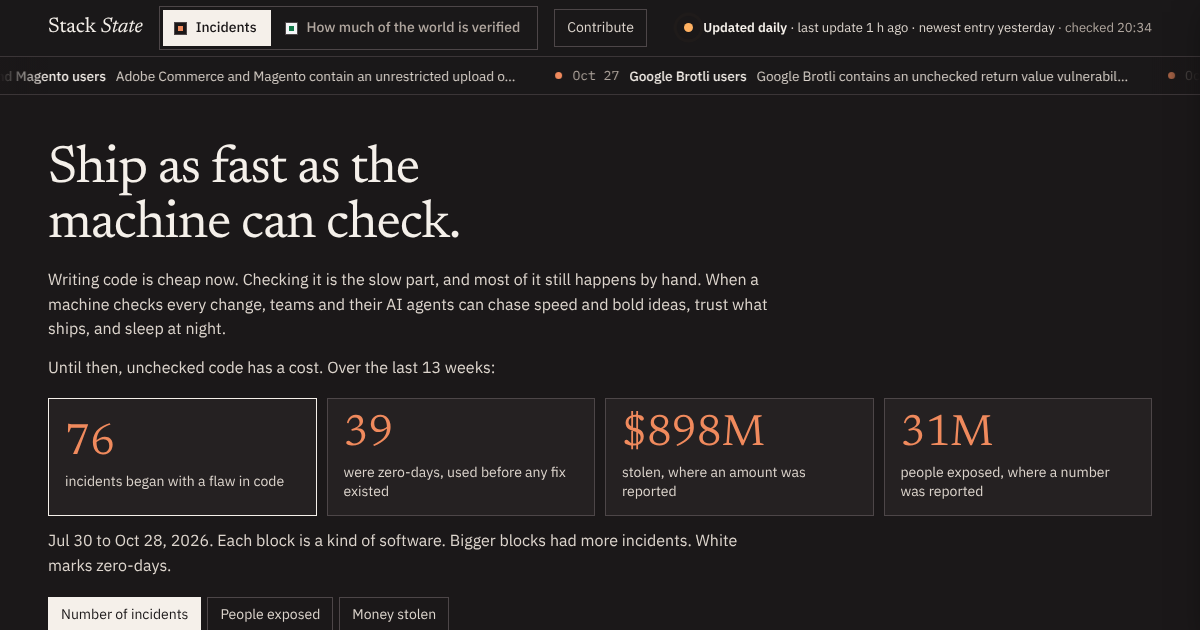
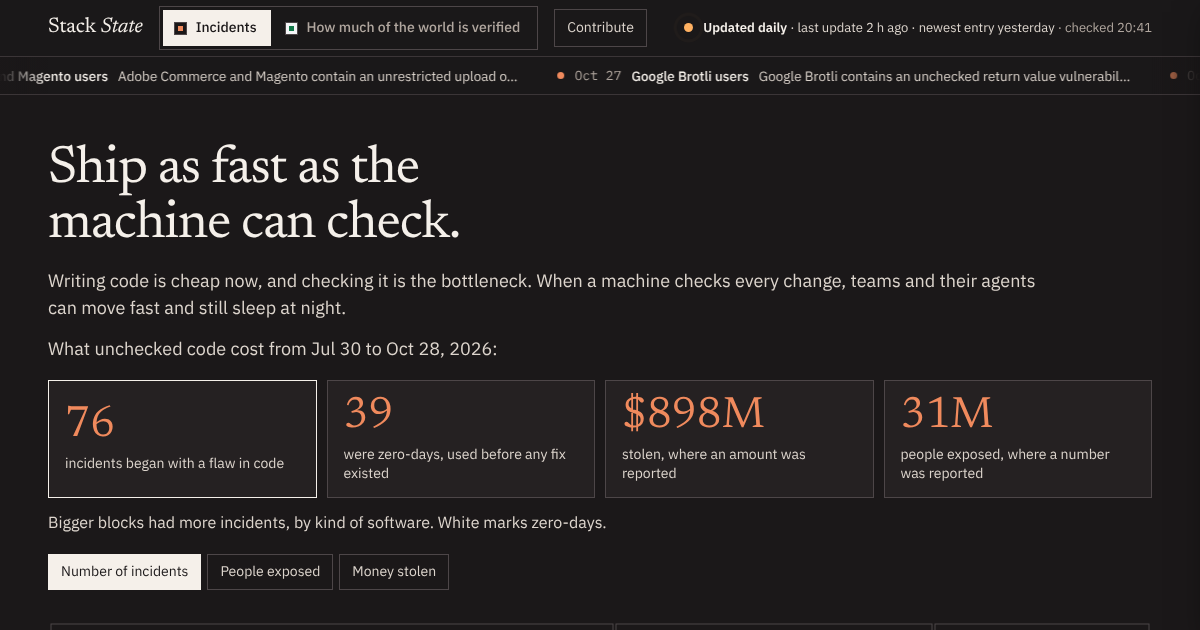
Shorten all page copy to two sentences or fewer and drop personal names
Rewrites every text block in plain language, keeps each to at most two
sentences, widens intro text so it wraps less, moves the date range into
the line above the stats, and replaces the named NASA reference with a
neutral one.

Claude-Session: https://claude.ai/code/session_01UGvyTyVFSucSV4igrg3bzF

diff --git a/site/index.html b/site/index.html
@@ -75,7 +75,7 @@ a { color: var(--accent); }
 .contrib { font-size: 14px; color: var(--ink-2); border: 1px solid var(--rule-2); padding: 7px 12px; text-decoration: none; white-space: nowrap; }
 .contrib:hover { color: var(--ink); border-color: var(--ink); }
 @media (max-width: 760px) { .contrib { order: 1; margin-left: auto; padding: 6px 10px; } .mode { order: 2; } }
-.lede { font-size: 16px; line-height: 1.55; color: var(--ink-2); max-width: 46rem; margin: 14px 0 0; }
+.lede { font-size: 18px; line-height: 1.5; color: var(--ink-2); max-width: 62rem; margin: 14px 0 0; }
 .lede a, .sug a { color: inherit; }
 .sug { margin-top: 18px; font-size: 14px; }
 .mode { display: inline-flex; border: 1px solid var(--rule-2); padding: 3px; gap: 3px; }
@@ -283,7 +283,7 @@ section.blk { padding-block: clamp(40px, 5vw, 64px) 0; scroll-margin-top: 110px;
 @media (max-width: 760px) { .stats { grid-template-columns: repeat(2, minmax(0, 1fr)); } }
 .join { margin-top: 26px; padding: 18px 20px; border: 1px solid var(--rule-2); background: var(--bg-2); }
 .join h3 { font-family: var(--f-serif); font-weight: 400; font-size: 24px; margin: 0 0 8px; color: var(--ink); }
-.join p { margin: 0 0 10px; font-size: 15px; line-height: 1.55; color: var(--ink-2); max-width: 46rem; }
+.join p { margin: 0 0 12px; font-size: 16px; line-height: 1.5; color: var(--ink-2); max-width: 62rem; }
 .join a.btn { display: inline-block; padding: 9px 14px; border: 1px solid var(--ink); color: var(--ink); text-decoration: none; font-size: 15px; }
 .maint { margin-top: 14px; font-size: 14px; color: var(--muted); }
 .t-short { display: none; }
@@ -326,8 +326,8 @@ footer.foot code { font-family: var(--f-mono); font-size: 13px; }
 <main class="view" id="v-attacks">
   <header class="hero wrap">
     <h1 class="big">Ship as fast as the machine can check.</h1>
-    <p class="lede">Writing code is cheap now. Checking it is the slow part, and most of it still happens by hand. When a machine checks every change, teams and their AI agents can chase speed and bold ideas, trust what ships, and sleep at night.</p>
-    <p class="lede">Until then, unchecked code has a cost. Over the last <span id="a-weeks">13</span> weeks:</p>
+    <p class="lede">Writing code is cheap now, and checking it is the bottleneck. When a machine checks every change, teams and their agents can move fast and still sleep at night.</p>
+    <p class="lede">What unchecked code cost from <span id="a-range"></span>:</p>
     <div class="stats" id="a-stats"></div>
     <p class="dots-sub" id="dots-sub"></p>
     <div class="sz" id="tree-size" role="group" aria-label="Size blocks by"></div>
@@ -352,10 +352,11 @@ footer.foot code { font-family: var(--f-mono); font-size: 13px; }
   </section>
 
   <footer class="foot wrap">
-    <p>Every incident links to its public source. Layers and categories are our judgment, and the list is incomplete by design. These records show what broke; they do not claim that any proof would have prevented a given incident. See <button type="button" class="link" data-goto="proofs" style="appearance:none;border:0;background:none;display:inline-block;padding:8px 0;margin:-8px 0;color:inherit;text-decoration:underline;cursor:pointer">how much of the world is verified</button>.</p>
+    <p>Every incident links to its public source, and the list is incomplete by design. We record what broke and make no claim about what a proof would have prevented.</p>
+    <p><button type="button" class="link" data-goto="proofs" style="appearance:none;border:0;background:none;display:inline-block;padding:8px 0;margin:-8px 0;color:inherit;text-decoration:underline;cursor:pointer">See how much of the world is verified</button></p>
     <div class="join">
       <h3>Help fill the map</h3>
-      <p>Suggest software that should be checked, report a bug, or point us to software that is already verified. You don't need to be a verification expert, and any tool counts, our prover included. Or just tell us what to check, and we'll check it.</p>
+      <p>Tell us what software to check, report a bug, or point us to verified work. No expertise needed: use any tool, ours included, or just ask and we'll check it.</p>
       <a class="btn" href="https://github.com/iamjustoutthere/stackstate/issues/new/choose" target="_blank" rel="noopener noreferrer">Open an issue on GitHub</a>
     </div>
     <p class="maint">Maintained by Intent Computing. Contributions welcome.</p>
@@ -367,16 +368,16 @@ footer.foot code { font-family: var(--f-mono); font-size: 13px; }
   <header class="hero wrap">
     <p class="lab">How much of the world is verified</p>
     <h1 class="big"><span class="pv num" id="p-v"></span> of <span class="num" id="p-t"></span> widely used components on our list are fully verified by machine</h1>
-    <p class="lede">Verified code can move fast. A machine re-checks every change, so people spend their time on speed and new ideas instead of review. Grigore Roșu saw the other side at NASA, where most of a project's budget went to checking code, far more than to writing it. Automatic checking gives that budget back. Few of the components the world runs on are there yet.</p>
+    <p class="lede">Verified code moves fast, because a machine re-checks every change. NASA has seen the other side, where checking code cost far more than writing it.</p>
     <div class="cov" id="cov"></div>
   </header>
 
   <section class="blk wrap" id="p-stack">
     <figure class="fig" style="margin:0">
       <h2 class="fig-h">Where the world's software stands</h2>
-      <p class="fig-d">Each block is a widely used component, sized by install base. Green shows published, machine-checked verification, by anyone. Red marks components with no known verification that had a public incident in the last 13 weeks. Select any block for what was verified, by whom, and the sources.</p>
-      <div class="fig-k"><span><i style="background:var(--proof)"></i>Fully verified</span><span><i style="background:var(--proof-soft);border-bottom:4px solid var(--proof)"></i>Partly verified (shading = rough share)</span><span><i style="background:#fff;box-shadow:inset 0 0 0 1.5px var(--none)"></i>No known verification</span><span><i style="background:var(--risk-soft);box-shadow:inset 0 0 0 1.5px var(--risk)"></i>No known verification, and a public incident in the last 13 weeks</span></div>
-      <p class="fig-d" style="margin-top:-6px">Red records history. It does not claim that a proof would have prevented any incident.</p>
+      <p class="fig-d">Each block is a widely used component, sized by install base. Select one to see what was verified, by whom, and the sources.</p>
+      <div class="fig-k"><span><i style="background:var(--proof)"></i>Fully verified</span><span><i style="background:var(--proof-soft);border-bottom:4px solid var(--proof)"></i>Partly verified (shading = rough share)</span><span><i style="background:#fff;box-shadow:inset 0 0 0 1.5px var(--none)"></i>No known verification</span><span><i style="background:var(--risk-soft);box-shadow:inset 0 0 0 1.5px var(--risk)"></i>None known, and an incident in the last 13 weeks</span></div>
+      <p class="fig-d" style="margin-top:-6px">Red records history. It makes no claim that a proof would have prevented an incident.</p>
       <div class="stack" id="stack"></div>
     </figure>
   </section>
@@ -393,10 +394,10 @@ footer.foot code { font-family: var(--f-mono); font-size: 13px; }
   </section>
 
   <footer class="foot wrap">
-    <p>Published, machine-checked verification that we know of, by anyone. Install bases and verified shares are rough estimates, and the list is incomplete by design. Every entry links to its source.</p>
+    <p>Published, machine-checked verification we know of, by anyone, each linked to its source. Install bases and verified shares are rough estimates, and the list is incomplete by design.</p>
     <div class="join">
       <h3>Help fill the map</h3>
-      <p>Suggest software that should be checked, report a bug, or point us to software that is already verified. You don't need to be a verification expert, and any tool counts, our prover included. Or just tell us what to check, and we'll check it.</p>
+      <p>Tell us what software to check, report a bug, or point us to verified work. No expertise needed: use any tool, ours included, or just ask and we'll check it.</p>
       <a class="btn" href="https://github.com/iamjustoutthere/stackstate/issues/new/choose" target="_blank" rel="noopener noreferrer">Open an issue on GitHub</a>
     </div>
     <p class="maint">Maintained by Intent Computing. Contributions welcome.</p>
@@ -10610,7 +10611,7 @@ function openComponent(c) {
     sec('Closest existing work', el('p', { class: 'dr-p', text: c.closest_existing_work })),
     sec(`Evidence (${c.evidence.length})`, c.evidence.length ? el('ul', { class: 'mini' }, c.evidence.map((id) => PR.find((p) => String(p.id) === String(id))).filter(Boolean).map((p) => el('li', {}, el('button', { type: 'button', text: p.project, onclick: () => openProof(p) }), el('span', { class: 'd', text: p.year + ' · ' + STATUS[p.status] })))) : el('p', { class: 'help', text: 'No published verification found.' })),
     sec(`All verification efforts in this layer (${prs.length})`, prs.length ? el('ul', { class: 'mini' }, prs.slice(0, 12).map((p) => el('li', {}, el('button', { type: 'button', text: p.project, onclick: () => openProof(p) }), el('span', { class: 'd', text: STATUS[p.status] })))) : el('p', { class: 'help', text: 'None on record.' })),
-    (() => { const inc = INC.filter((r) => r.component === c.component).sort((a, b) => b.t - a.t); return inc.length ? sec(`Public incidents in the last 13 weeks (${inc.length})`, el('ul', { class: 'mini' }, inc.map((r) => el('li', {}, el('button', { type: 'button', text: clip(r.victim, 60), onclick: () => openIncident(r) }), el('span', { class: 'd', text: fmtDay(r.date) })))), el('p', { class: 'dr-p', text: 'This records history. It does not claim that a proof would have prevented these incidents.' })) : null; })(),
+    (() => { const inc = INC.filter((r) => r.component === c.component).sort((a, b) => b.t - a.t); return inc.length ? sec(`Public incidents in the last 13 weeks (${inc.length})`, el('ul', { class: 'mini' }, inc.map((r) => el('li', {}, el('button', { type: 'button', text: clip(r.victim, 60), onclick: () => openIncident(r) }), el('span', { class: 'd', text: fmtDay(r.date) })))), el('p', { class: 'dr-p', text: 'This records history. It makes no claim that a proof would have prevented these incidents.' })) : null; })(),
     suggest('Know of verification work on this? Suggest it', 'add-verification.yml', `Verification: ${c.component}`),
   ]);
 }
@@ -10659,20 +10660,17 @@ function renderFilt() {
 function renderHero() {
   const days = d3.utcDay.range(WIN.start, d3.utcDay.offset(WIN.end, 1));
   const nW = Math.ceil(days.length / 7);
-  $('#a-weeks').textContent = Math.round(days.length / 7);
+  $('#a-range').textContent = `${fmtDay(iso(WIN.start))} to ${fmtDayY(iso(WIN.end))}`;
   const zd = INC.filter((r) => r.zero_day === true).length, usd = d3.sum(INC, (r) => r.usd), ppl = d3.sum(INC, (r) => r.people);
   $('#a-stats').replaceChildren(...[[String(INC.length), 'incidents began with a flaw in code', 'n'], [String(zd), 'were zero-days, used before any fix existed', 'n'], [fmtUSD(usd), 'stolen, where an amount was reported', 'usd'], [fmtN(ppl), 'people exposed, where a number was reported', 'people']]
     .map(([v, txt, size], i) => el('button', { type: 'button', class: 'stat', 'aria-pressed': i !== 1 && S.size === size ? 'true' : 'false', onclick: () => { S.size = size; render(); } }, el('strong', { class: 'num', text: v }), el('span', { text: txt }))));
-  $('#method-p').textContent = `We count an incident when the reports say the attackers got in through a defect in software: an exploited CVE, a zero-day, an injection, an authentication bypass, a memory-safety bug, or a logic bug in a contract or protocol. Of the ${ALL.length} incidents we tracked in this period, we left out ${ALL.length - INC.length - SMALL_CHAIN.length} with other causes (phishing, stolen passwords, misconfiguration, malicious packages, or no stated cause) and ${SMALL_CHAIN.length} smart-contract and blockchain incidents with losses under $10M. Components and layers match the Verification tab. The exact rules are in scripts/classify.py in the project repository.`;
-  const SIZE_TXT = {
-    n: ($('#tree').clientWidth || 1000) < 640 ? 'Each row is a kind of software, ranked by incidents.' : 'Each block is a kind of software. Bigger blocks had more incidents.',
-    people: 'Sized by people exposed, where a number was reported.',
-    usd: 'Sized by money stolen, where a number was reported.',
-  };
+  $('#method-p').textContent = `We count an incident when attackers got in through a software defect, such as an exploited CVE, an injection or a memory-safety bug. Of ${ALL.length} incidents tracked, ${ALL.length - INC.length - SMALL_CHAIN.length} with other causes and ${SMALL_CHAIN.length} blockchain losses under $10M are left out.`;
+  const narrowTree = ($('#tree').clientWidth || 1000) < 640;
   const inWin = ALL.filter((r) => !isFlaw(r) && r.t >= +WIN.start);
   const other = S.size === 'people' ? d3.sum(inWin, (r) => r.people) : S.size === 'usd' ? d3.sum(inWin, (r) => r.usd) : 0;
-  const otherTxt = other ? ` Incidents with other causes (phishing, stolen passwords, misconfiguration) ${S.size === 'people' ? `exposed ${fmtN(other)} more people` : `cost another ${fmtUSD(other)}`} in the same weeks; they are not shown here.` : '';
-  $('#dots-sub').textContent = `${fmtDay(iso(WIN.start))} to ${fmtDayY(iso(WIN.end))}. ${SIZE_TXT[S.size]} White marks zero-days.${otherTxt}`;
+  $('#dots-sub').textContent = S.size === 'n'
+    ? `${narrowTree ? 'Rows are ranked' : 'Bigger blocks had more incidents'}, by kind of software. White marks zero-days.`
+    : `Sized by ${S.size === 'people' ? 'people exposed' : 'money stolen'}, where a number was reported.${other ? ` Other causes, like phishing, add ${S.size === 'people' ? fmtN(other) + ' more people' : fmtUSD(other)} not shown here.` : ''}`;
   $('#tree-size').replaceChildren(...[['n', 'Number of incidents'], ['people', 'People exposed'], ['usd', 'Money stolen']].map(([k, label]) =>
     el('button', { type: 'button', 'aria-pressed': S.size === k ? 'true' : 'false', onclick: () => { S.size = k; render(); } }, label)));
 }

diff --git a/src/page.template.html b/src/page.template.html
@@ -53,7 +53,7 @@ a { color: var(--accent); }
 .contrib { font-size: 14px; color: var(--ink-2); border: 1px solid var(--rule-2); padding: 7px 12px; text-decoration: none; white-space: nowrap; }
 .contrib:hover { color: var(--ink); border-color: var(--ink); }
 @media (max-width: 760px) { .contrib { order: 1; margin-left: auto; padding: 6px 10px; } .mode { order: 2; } }
-.lede { font-size: 16px; line-height: 1.55; color: var(--ink-2); max-width: 46rem; margin: 14px 0 0; }
+.lede { font-size: 18px; line-height: 1.5; color: var(--ink-2); max-width: 62rem; margin: 14px 0 0; }
 .lede a, .sug a { color: inherit; }
 .sug { margin-top: 18px; font-size: 14px; }
 .mode { display: inline-flex; border: 1px solid var(--rule-2); padding: 3px; gap: 3px; }
@@ -261,7 +261,7 @@ section.blk { padding-block: clamp(40px, 5vw, 64px) 0; scroll-margin-top: 110px;
 @media (max-width: 760px) { .stats { grid-template-columns: repeat(2, minmax(0, 1fr)); } }
 .join { margin-top: 26px; padding: 18px 20px; border: 1px solid var(--rule-2); background: var(--bg-2); }
 .join h3 { font-family: var(--f-serif); font-weight: 400; font-size: 24px; margin: 0 0 8px; color: var(--ink); }
-.join p { margin: 0 0 10px; font-size: 15px; line-height: 1.55; color: var(--ink-2); max-width: 46rem; }
+.join p { margin: 0 0 12px; font-size: 16px; line-height: 1.5; color: var(--ink-2); max-width: 62rem; }
 .join a.btn { display: inline-block; padding: 9px 14px; border: 1px solid var(--ink); color: var(--ink); text-decoration: none; font-size: 15px; }
 .maint { margin-top: 14px; font-size: 14px; color: var(--muted); }
 .t-short { display: none; }
@@ -304,8 +304,8 @@ footer.foot code { font-family: var(--f-mono); font-size: 13px; }
 <main class="view" id="v-attacks">
   <header class="hero wrap">
     <h1 class="big">Ship as fast as the machine can check.</h1>
-    <p class="lede">Writing code is cheap now. Checking it is the slow part, and most of it still happens by hand. When a machine checks every change, teams and their AI agents can chase speed and bold ideas, trust what ships, and sleep at night.</p>
-    <p class="lede">Until then, unchecked code has a cost. Over the last <span id="a-weeks">13</span> weeks:</p>
+    <p class="lede">Writing code is cheap now, and checking it is the bottleneck. When a machine checks every change, teams and their agents can move fast and still sleep at night.</p>
+    <p class="lede">What unchecked code cost from <span id="a-range"></span>:</p>
     <div class="stats" id="a-stats"></div>
     <p class="dots-sub" id="dots-sub"></p>
     <div class="sz" id="tree-size" role="group" aria-label="Size blocks by"></div>
@@ -330,10 +330,11 @@ footer.foot code { font-family: var(--f-mono); font-size: 13px; }
   </section>
 
   <footer class="foot wrap">
-    <p>Every incident links to its public source. Layers and categories are our judgment, and the list is incomplete by design. These records show what broke; they do not claim that any proof would have prevented a given incident. See <button type="button" class="link" data-goto="proofs" style="appearance:none;border:0;background:none;display:inline-block;padding:8px 0;margin:-8px 0;color:inherit;text-decoration:underline;cursor:pointer">how much of the world is verified</button>.</p>
+    <p>Every incident links to its public source, and the list is incomplete by design. We record what broke and make no claim about what a proof would have prevented.</p>
+    <p><button type="button" class="link" data-goto="proofs" style="appearance:none;border:0;background:none;display:inline-block;padding:8px 0;margin:-8px 0;color:inherit;text-decoration:underline;cursor:pointer">See how much of the world is verified</button></p>
     <div class="join">
       <h3>Help fill the map</h3>
-      <p>Suggest software that should be checked, report a bug, or point us to software that is already verified. You don't need to be a verification expert, and any tool counts, our prover included. Or just tell us what to check, and we'll check it.</p>
+      <p>Tell us what software to check, report a bug, or point us to verified work. No expertise needed: use any tool, ours included, or just ask and we'll check it.</p>
       <a class="btn" href="https://github.com/iamjustoutthere/stackstate/issues/new/choose" target="_blank" rel="noopener noreferrer">Open an issue on GitHub</a>
     </div>
     <p class="maint">Maintained by Intent Computing. Contributions welcome.</p>
@@ -345,16 +346,16 @@ footer.foot code { font-family: var(--f-mono); font-size: 13px; }
   <header class="hero wrap">
     <p class="lab">How much of the world is verified</p>
     <h1 class="big"><span class="pv num" id="p-v"></span> of <span class="num" id="p-t"></span> widely used components on our list are fully verified by machine</h1>
-    <p class="lede">Verified code can move fast. A machine re-checks every change, so people spend their time on speed and new ideas instead of review. Grigore Roșu saw the other side at NASA, where most of a project's budget went to checking code, far more than to writing it. Automatic checking gives that budget back. Few of the components the world runs on are there yet.</p>
+    <p class="lede">Verified code moves fast, because a machine re-checks every change. NASA has seen the other side, where checking code cost far more than writing it.</p>
     <div class="cov" id="cov"></div>
   </header>
 
   <section class="blk wrap" id="p-stack">
     <figure class="fig" style="margin:0">
       <h2 class="fig-h">Where the world's software stands</h2>
-      <p class="fig-d">Each block is a widely used component, sized by install base. Green shows published, machine-checked verification, by anyone. Red marks components with no known verification that had a public incident in the last 13 weeks. Select any block for what was verified, by whom, and the sources.</p>
-      <div class="fig-k"><span><i style="background:var(--proof)"></i>Fully verified</span><span><i style="background:var(--proof-soft);border-bottom:4px solid var(--proof)"></i>Partly verified (shading = rough share)</span><span><i style="background:#fff;box-shadow:inset 0 0 0 1.5px var(--none)"></i>No known verification</span><span><i style="background:var(--risk-soft);box-shadow:inset 0 0 0 1.5px var(--risk)"></i>No known verification, and a public incident in the last 13 weeks</span></div>
-      <p class="fig-d" style="margin-top:-6px">Red records history. It does not claim that a proof would have prevented any incident.</p>
+      <p class="fig-d">Each block is a widely used component, sized by install base. Select one to see what was verified, by whom, and the sources.</p>
+      <div class="fig-k"><span><i style="background:var(--proof)"></i>Fully verified</span><span><i style="background:var(--proof-soft);border-bottom:4px solid var(--proof)"></i>Partly verified (shading = rough share)</span><span><i style="background:#fff;box-shadow:inset 0 0 0 1.5px var(--none)"></i>No known verification</span><span><i style="background:var(--risk-soft);box-shadow:inset 0 0 0 1.5px var(--risk)"></i>None known, and an incident in the last 13 weeks</span></div>
+      <p class="fig-d" style="margin-top:-6px">Red records history. It makes no claim that a proof would have prevented an incident.</p>
       <div class="stack" id="stack"></div>
     </figure>
   </section>
@@ -371,10 +372,10 @@ footer.foot code { font-family: var(--f-mono); font-size: 13px; }
   </section>
 
   <footer class="foot wrap">
-    <p>Published, machine-checked verification that we know of, by anyone. Install bases and verified shares are rough estimates, and the list is incomplete by design. Every entry links to its source.</p>
+    <p>Published, machine-checked verification we know of, by anyone, each linked to its source. Install bases and verified shares are rough estimates, and the list is incomplete by design.</p>
     <div class="join">
       <h3>Help fill the map</h3>
-      <p>Suggest software that should be checked, report a bug, or point us to software that is already verified. You don't need to be a verification expert, and any tool counts, our prover included. Or just tell us what to check, and we'll check it.</p>
+      <p>Tell us what software to check, report a bug, or point us to verified work. No expertise needed: use any tool, ours included, or just ask and we'll check it.</p>
       <a class="btn" href="https://github.com/iamjustoutthere/stackstate/issues/new/choose" target="_blank" rel="noopener noreferrer">Open an issue on GitHub</a>
     </div>
     <p class="maint">Maintained by Intent Computing. Contributions welcome.</p>
@@ -544,7 +545,7 @@ function openComponent(c) {
     sec('Closest existing work', el('p', { class: 'dr-p', text: c.closest_existing_work })),
     sec(`Evidence (${c.evidence.length})`, c.evidence.length ? el('ul', { class: 'mini' }, c.evidence.map((id) => PR.find((p) => String(p.id) === String(id))).filter(Boolean).map((p) => el('li', {}, el('button', { type: 'button', text: p.project, onclick: () => openProof(p) }), el('span', { class: 'd', text: p.year + ' · ' + STATUS[p.status] })))) : el('p', { class: 'help', text: 'No published verification found.' })),
     sec(`All verification efforts in this layer (${prs.length})`, prs.length ? el('ul', { class: 'mini' }, prs.slice(0, 12).map((p) => el('li', {}, el('button', { type: 'button', text: p.project, onclick: () => openProof(p) }), el('span', { class: 'd', text: STATUS[p.status] })))) : el('p', { class: 'help', text: 'None on record.' })),
-    (() => { const inc = INC.filter((r) => r.component === c.component).sort((a, b) => b.t - a.t); return inc.length ? sec(`Public incidents in the last 13 weeks (${inc.length})`, el('ul', { class: 'mini' }, inc.map((r) => el('li', {}, el('button', { type: 'button', text: clip(r.victim, 60), onclick: () => openIncident(r) }), el('span', { class: 'd', text: fmtDay(r.date) })))), el('p', { class: 'dr-p', text: 'This records history. It does not claim that a proof would have prevented these incidents.' })) : null; })(),
+    (() => { const inc = INC.filter((r) => r.component === c.component).sort((a, b) => b.t - a.t); return inc.length ? sec(`Public incidents in the last 13 weeks (${inc.length})`, el('ul', { class: 'mini' }, inc.map((r) => el('li', {}, el('button', { type: 'button', text: clip(r.victim, 60), onclick: () => openIncident(r) }), el('span', { class: 'd', text: fmtDay(r.date) })))), el('p', { class: 'dr-p', text: 'This records history. It makes no claim that a proof would have prevented these incidents.' })) : null; })(),
     suggest('Know of verification work on this? Suggest it', 'add-verification.yml', `Verification: ${c.component}`),
   ]);
 }
@@ -593,20 +594,17 @@ function renderFilt() {
 function renderHero() {
   const days = d3.utcDay.range(WIN.start, d3.utcDay.offset(WIN.end, 1));
   const nW = Math.ceil(days.length / 7);
-  $('#a-weeks').textContent = Math.round(days.length / 7);
+  $('#a-range').textContent = `${fmtDay(iso(WIN.start))} to ${fmtDayY(iso(WIN.end))}`;
   const zd = INC.filter((r) => r.zero_day === true).length, usd = d3.sum(INC, (r) => r.usd), ppl = d3.sum(INC, (r) => r.people);
   $('#a-stats').replaceChildren(...[[String(INC.length), 'incidents began with a flaw in code', 'n'], [String(zd), 'were zero-days, used before any fix existed', 'n'], [fmtUSD(usd), 'stolen, where an amount was reported', 'usd'], [fmtN(ppl), 'people exposed, where a number was reported', 'people']]
     .map(([v, txt, size], i) => el('button', { type: 'button', class: 'stat', 'aria-pressed': i !== 1 && S.size === size ? 'true' : 'false', onclick: () => { S.size = size; render(); } }, el('strong', { class: 'num', text: v }), el('span', { text: txt }))));
-  $('#method-p').textContent = `We count an incident when the reports say the attackers got in through a defect in software: an exploited CVE, a zero-day, an injection, an authentication bypass, a memory-safety bug, or a logic bug in a contract or protocol. Of the ${ALL.length} incidents we tracked in this period, we left out ${ALL.length - INC.length - SMALL_CHAIN.length} with other causes (phishing, stolen passwords, misconfiguration, malicious packages, or no stated cause) and ${SMALL_CHAIN.length} smart-contract and blockchain incidents with losses under $10M. Components and layers match the Verification tab. The exact rules are in scripts/classify.py in the project repository.`;
-  const SIZE_TXT = {
-    n: ($('#tree').clientWidth || 1000) < 640 ? 'Each row is a kind of software, ranked by incidents.' : 'Each block is a kind of software. Bigger blocks had more incidents.',
-    people: 'Sized by people exposed, where a number was reported.',
-    usd: 'Sized by money stolen, where a number was reported.',
-  };
+  $('#method-p').textContent = `We count an incident when attackers got in through a software defect, such as an exploited CVE, an injection or a memory-safety bug. Of ${ALL.length} incidents tracked, ${ALL.length - INC.length - SMALL_CHAIN.length} with other causes and ${SMALL_CHAIN.length} blockchain losses under $10M are left out.`;
+  const narrowTree = ($('#tree').clientWidth || 1000) < 640;
   const inWin = ALL.filter((r) => !isFlaw(r) && r.t >= +WIN.start);
   const other = S.size === 'people' ? d3.sum(inWin, (r) => r.people) : S.size === 'usd' ? d3.sum(inWin, (r) => r.usd) : 0;
-  const otherTxt = other ? ` Incidents with other causes (phishing, stolen passwords, misconfiguration) ${S.size === 'people' ? `exposed ${fmtN(other)} more people` : `cost another ${fmtUSD(other)}`} in the same weeks; they are not shown here.` : '';
-  $('#dots-sub').textContent = `${fmtDay(iso(WIN.start))} to ${fmtDayY(iso(WIN.end))}. ${SIZE_TXT[S.size]} White marks zero-days.${otherTxt}`;
+  $('#dots-sub').textContent = S.size === 'n'
+    ? `${narrowTree ? 'Rows are ranked' : 'Bigger blocks had more incidents'}, by kind of software. White marks zero-days.`
+    : `Sized by ${S.size === 'people' ? 'people exposed' : 'money stolen'}, where a number was reported.${other ? ` Other causes, like phishing, add ${S.size === 'people' ? fmtN(other) + ' more people' : fmtUSD(other)} not shown here.` : ''}`;
   $('#tree-size').replaceChildren(...[['n', 'Number of incidents'], ['people', 'People exposed'], ['usd', 'Money stolen']].map(([k, label]) =>
     el('button', { type: 'button', 'aria-pressed': S.size === k ? 'true' : 'false', onclick: () => { S.size = k; render(); } }, label)));
 }
